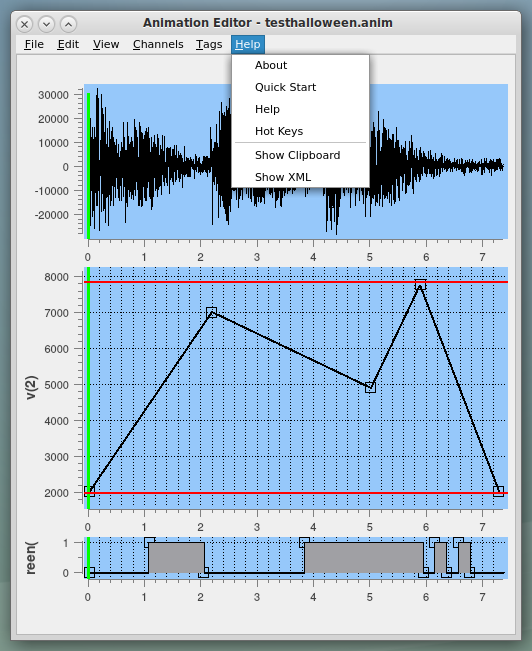
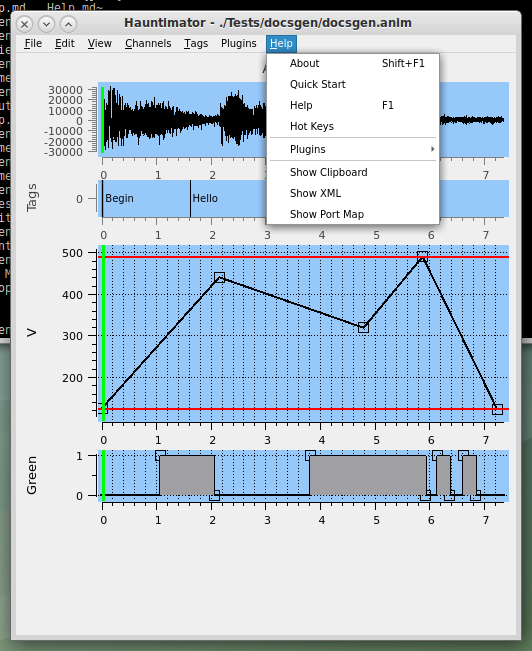
Added image to help docs

diff --git a/docs/Help.md b/docs/Help.md
@@ -660,13 +660,15 @@ Hauntimator does provide Undo capability for plugin actions.
 
 ### Help Menu
 
+![Help Menu](images/helpmenu.png)
+
 The Help menu provides access to this helpful information as well as some other helpful information.
 In addition, it provides some visibility into the content of the clipboard and the overall animation as
 expressed in the XML used for storing the animation information.  This is mostly for my personal
 debugging purposes but is available for all to peruse.
 
 If the developer or user has provided help files for the plugins (plugins/plugin_name.md), they will
-be automagically added to the Help menu.
+be automagically added to the Help menu under Plugins.
 
 <a name="audio-tracks">
 &nbsp;